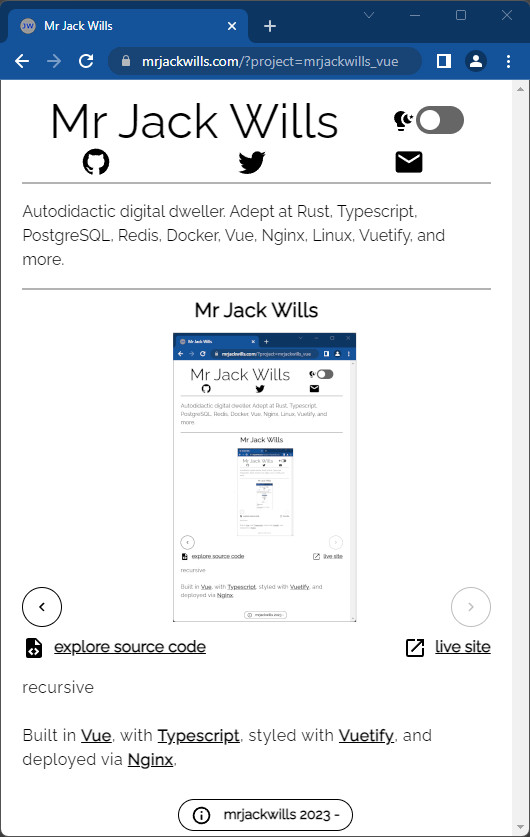
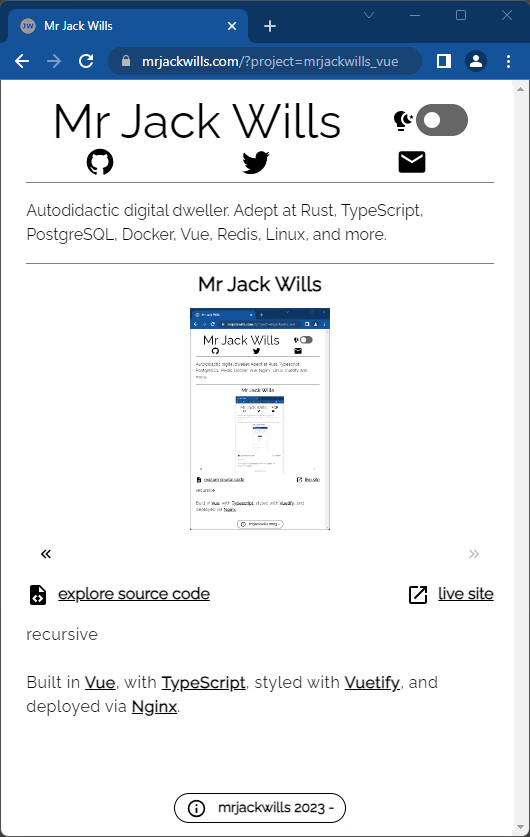
fix: mrjackwills images updated

diff --git a/src/views/HomeView.vue b/src/views/HomeView.vue
@@ -31,11 +31,11 @@
 					</v-col>
 
 					<v-col cols='auto' class='ma-0 pa-0' :order='mobile?"2":"1"'>
-						<v-btn class='ma-0 pa-0' :disabled='previous_disabled' variant='text' :size='icon_size' :color='color' @click='previous' :icon='mdiChevronDoubleLeft' />
+						<v-btn class='' :disabled='previous_disabled' variant='text' :size='icon_size' :color='color' @click='previous' :icon='mdiChevronDoubleLeft' />
 					</v-col>
 						
 					<v-col cols='auto' class='ma-0 pa-0' order='3' >
-						<v-btn class='ma-0 pa-0' :disabled='next_disabled' @click='next' variant='text' :size='icon_size' :color='color' :icon='mdiChevronDoubleRight' />
+						<v-btn class='' :disabled='next_disabled' @click='next' variant='text' :size='icon_size' :color='color' :icon='mdiChevronDoubleRight' />
 					</v-col>
 				</v-row>
 
@@ -145,7 +145,7 @@ const mobile = computed((): boolean => {
 });
 
 const icon_size = computed((): string => {
-	return mobile.value ? 'large' : 'x-large';
+	return mobile.value ? 'small' : 'x-large';
 });
 
 const dark_mode = computed({
